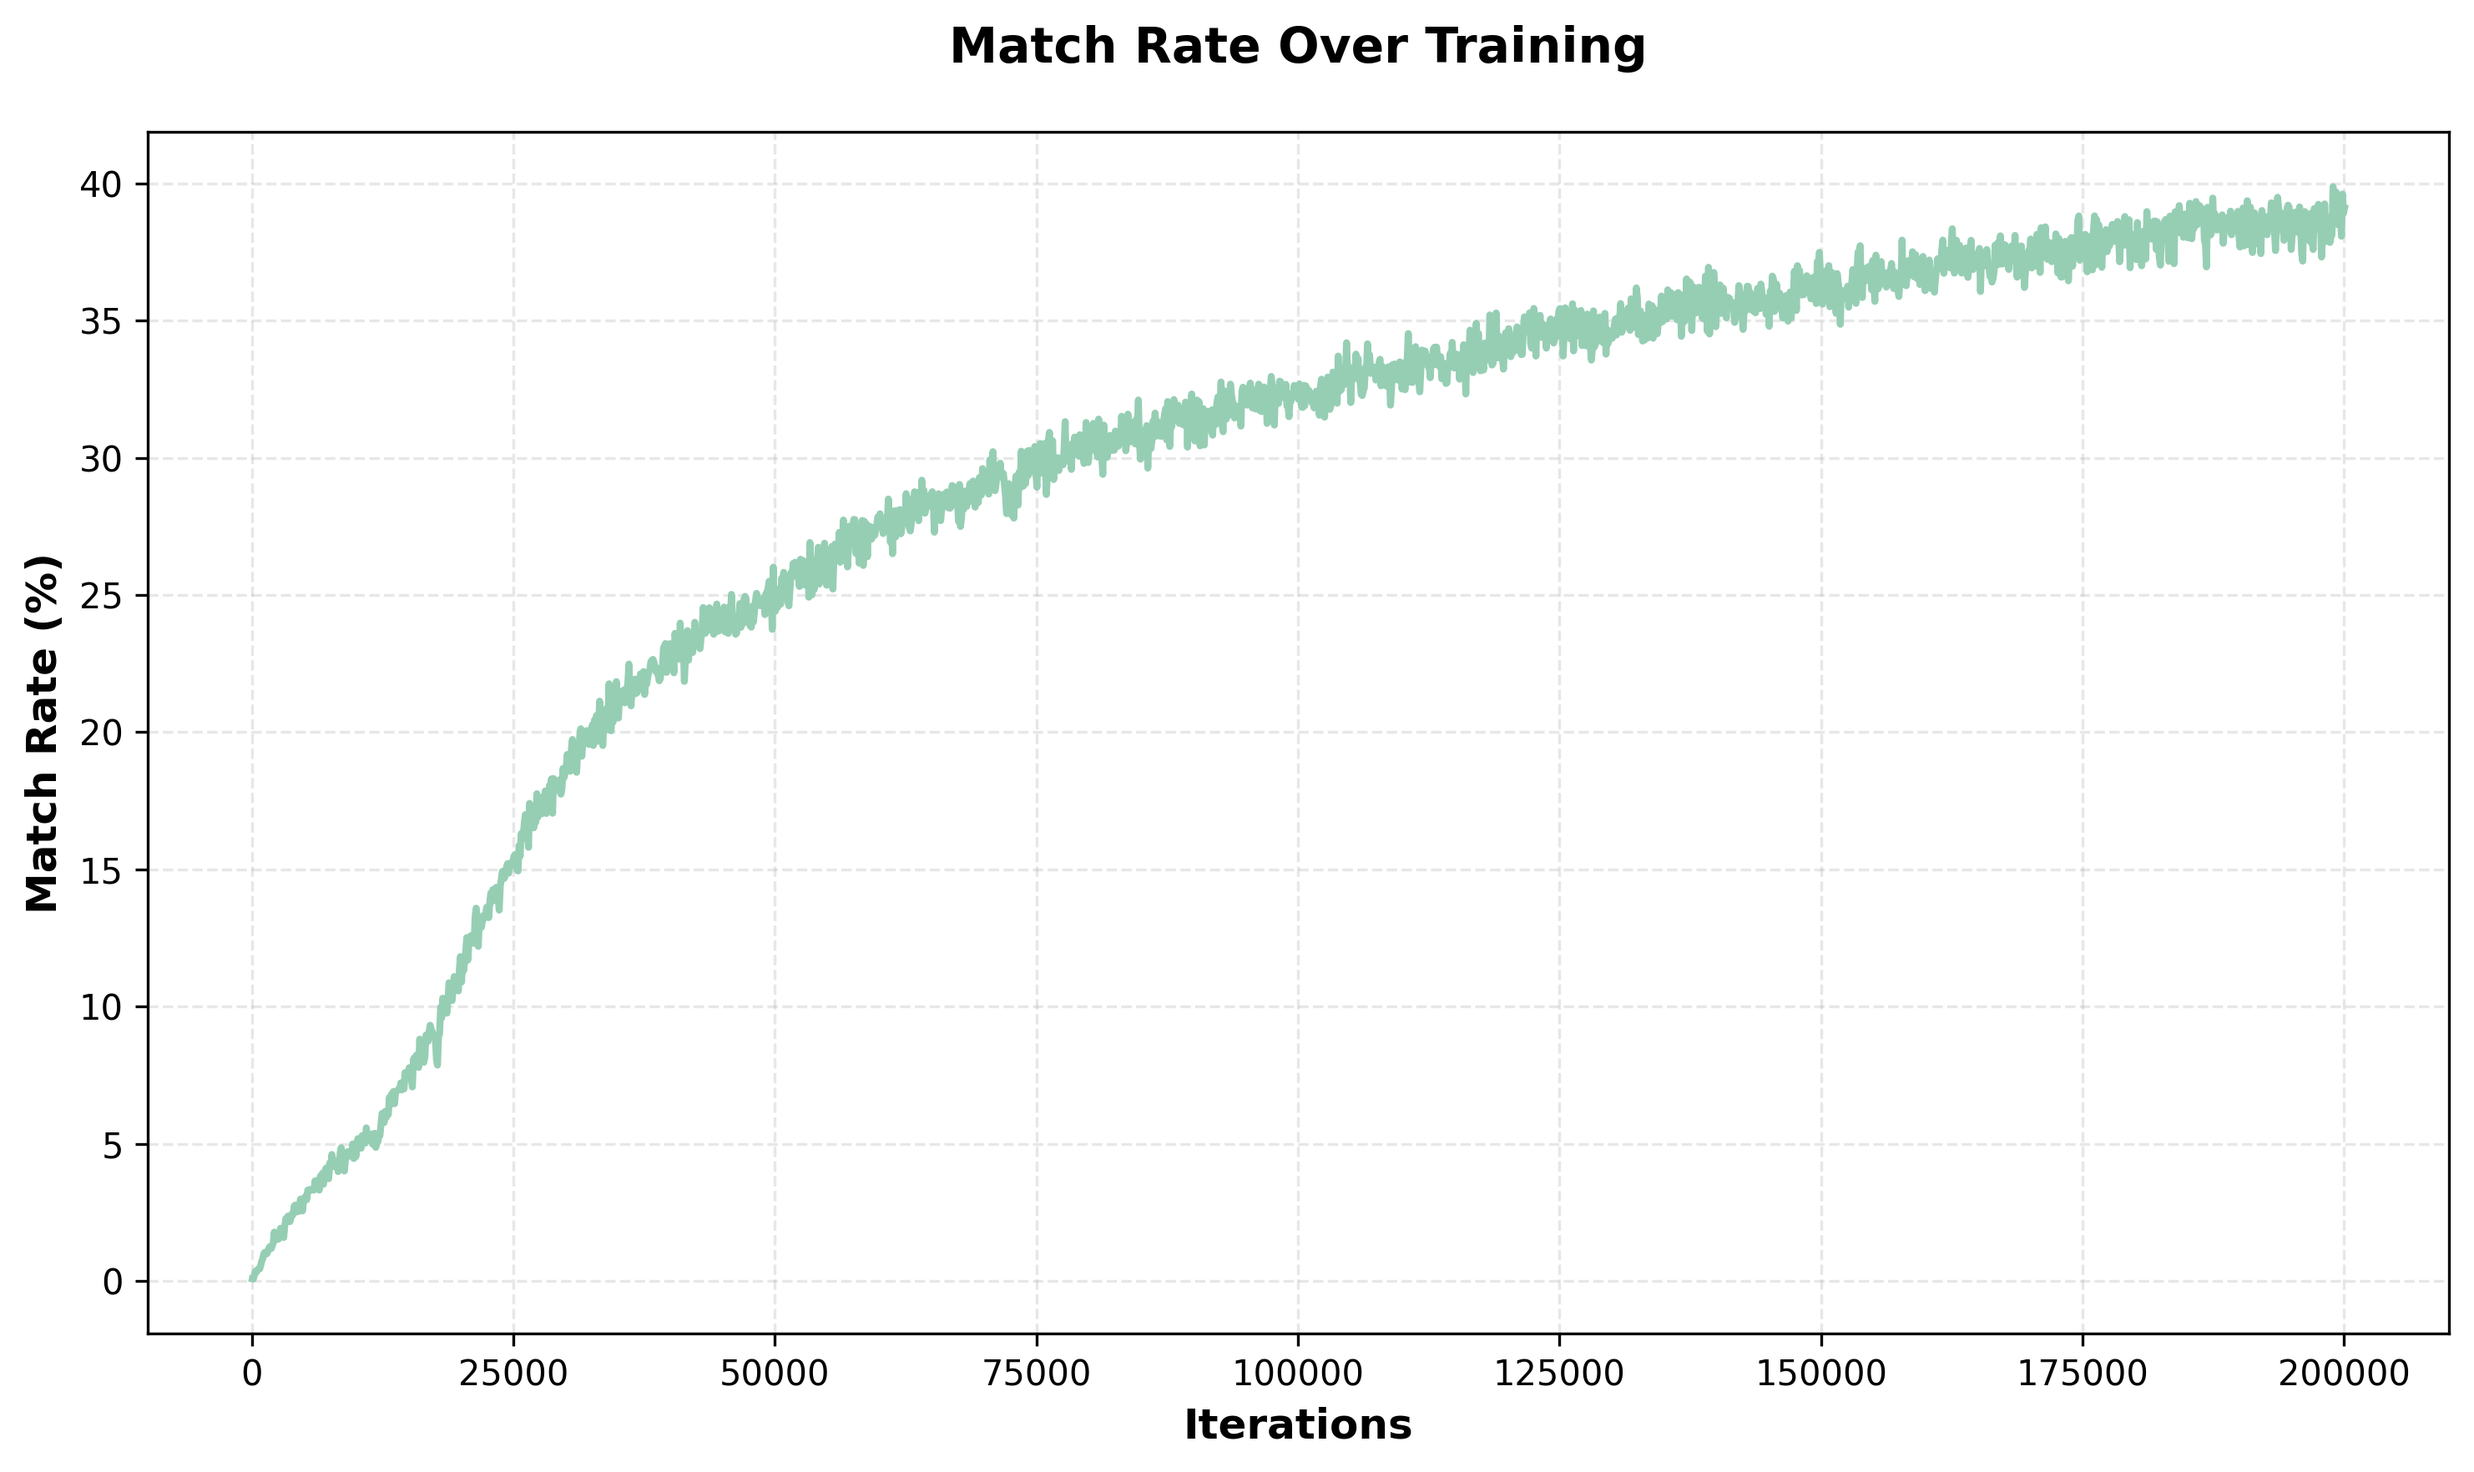
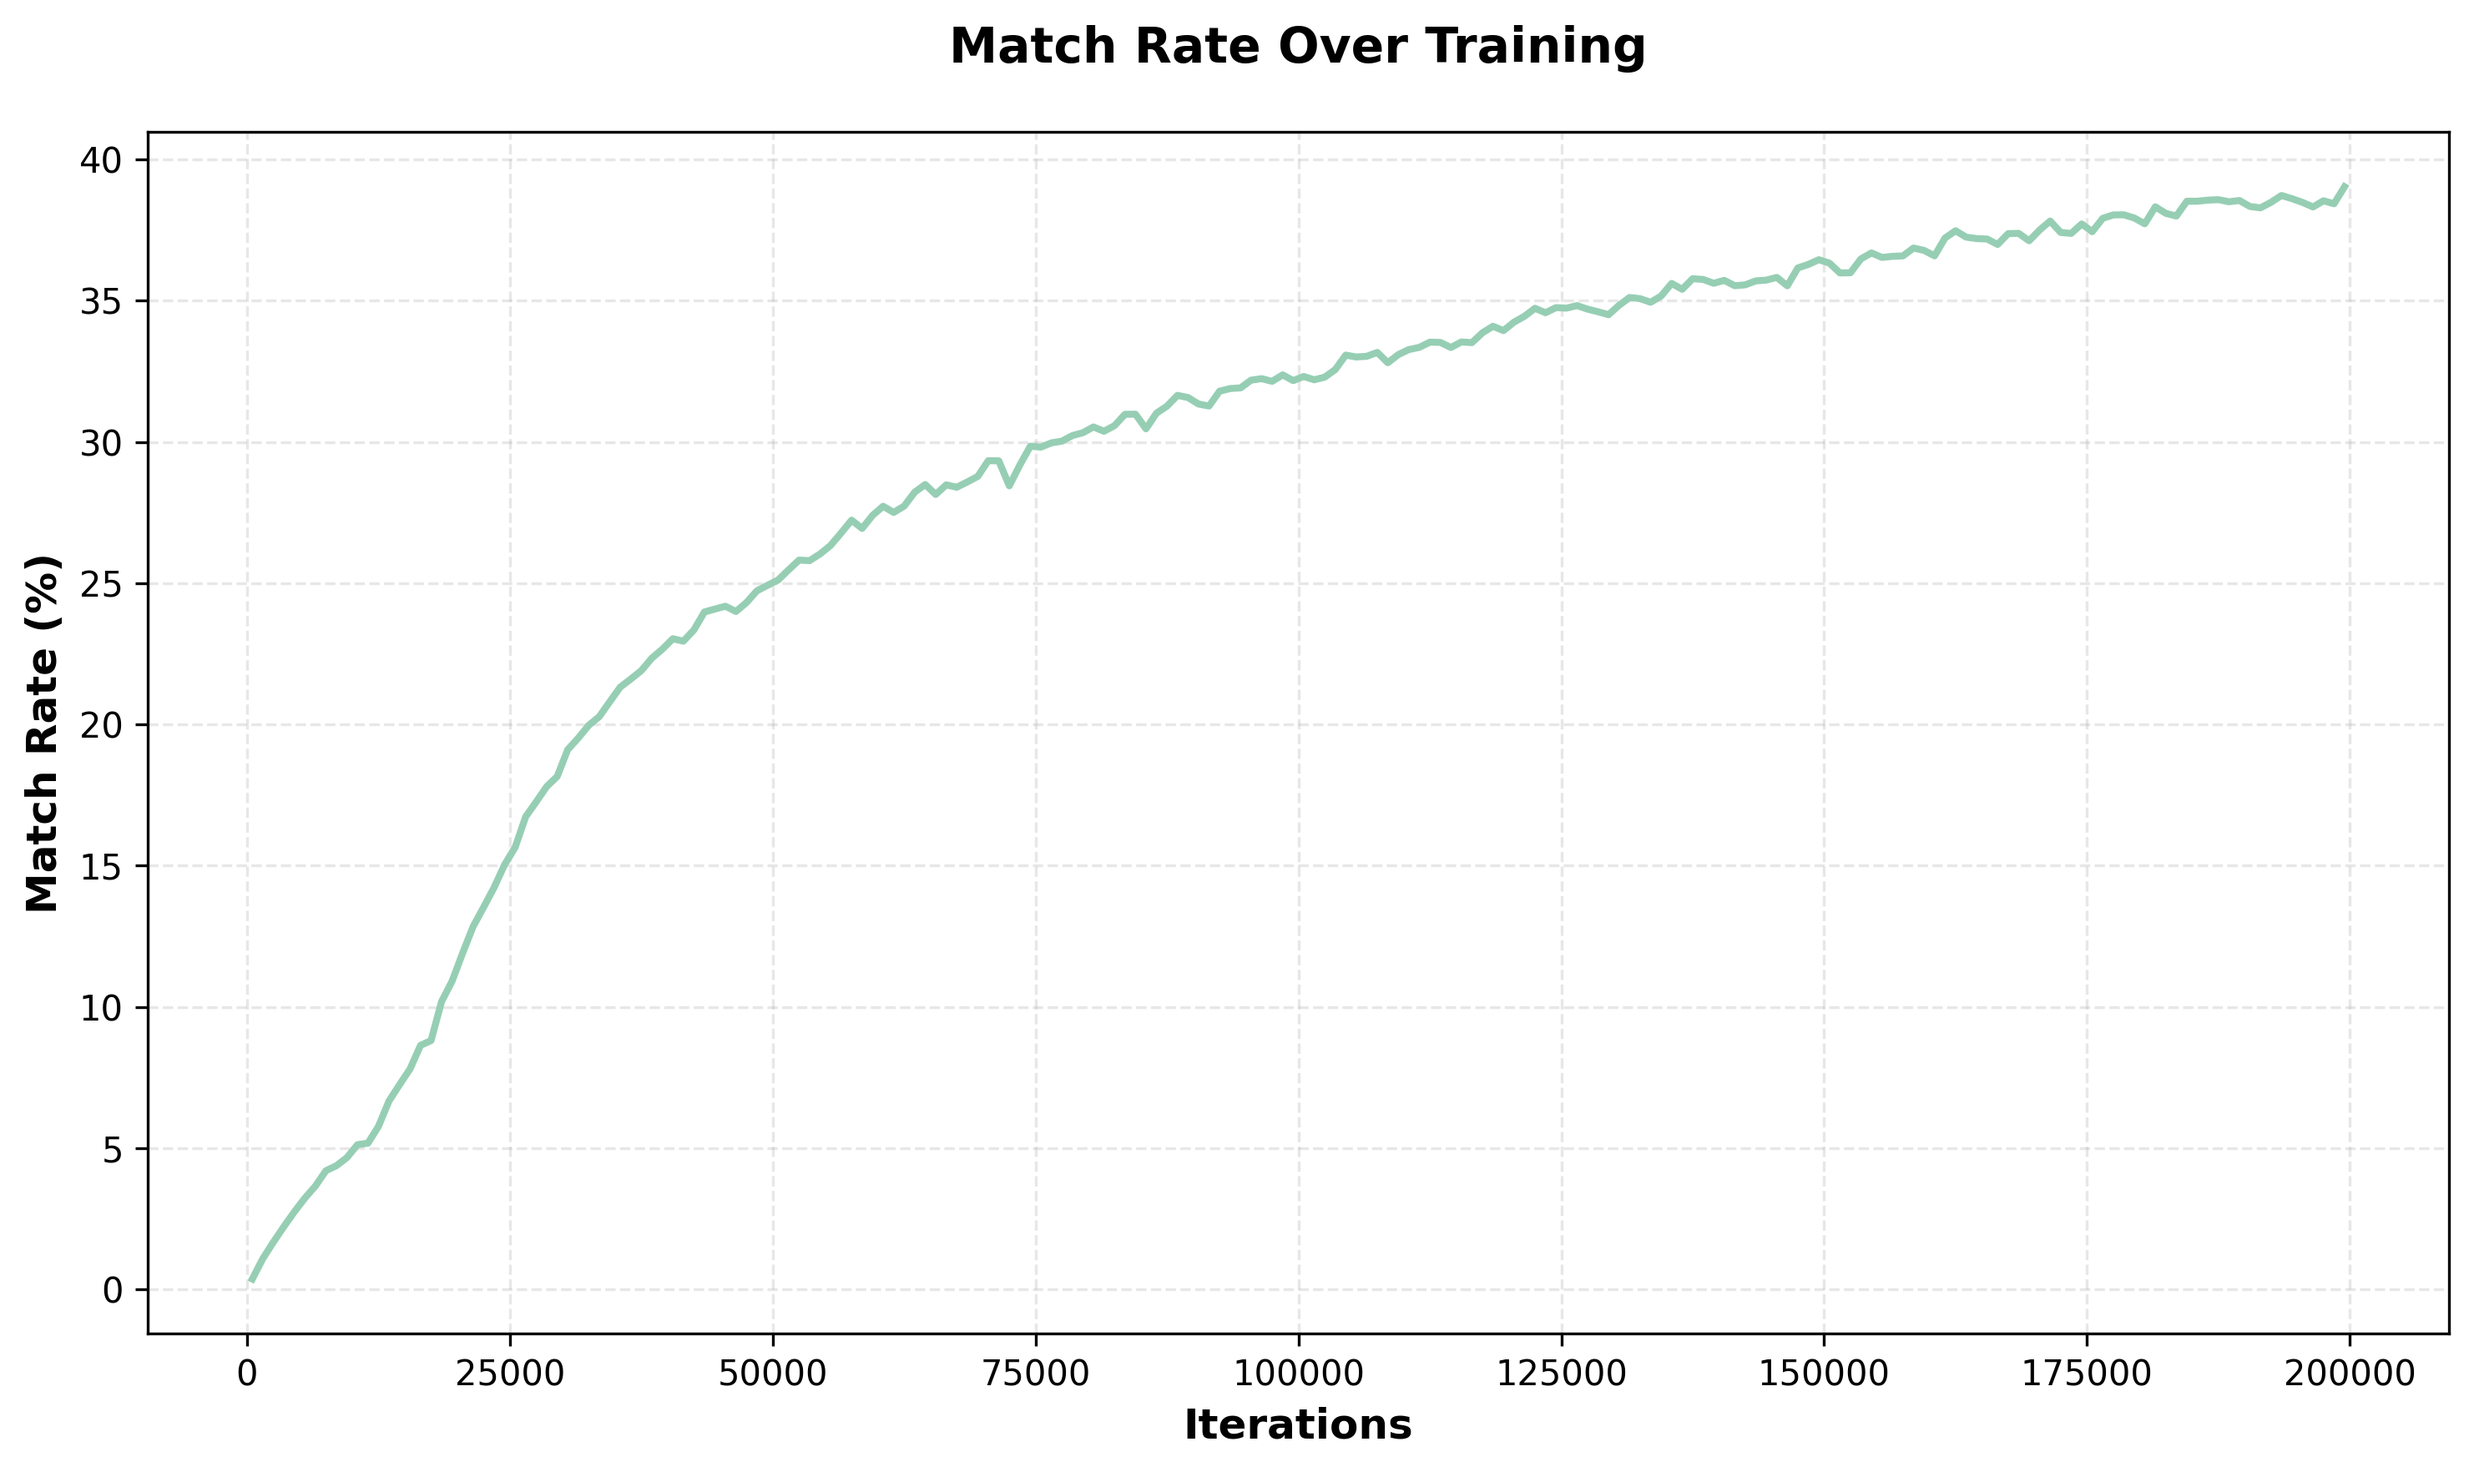
mod

diff --git a/plot_loss.py b/plot_loss.py
@@ -109,7 +109,7 @@ def parse_log_file(log_file):
     
     return iterations, key_loss, lpips_loss, total_loss, match_rate, mse_dist, mae_dist
 
-def average_metrics(iterations, metrics, window_size=100):
+def average_metrics(iterations, metrics, window_size=1000):
     # Convert to numpy arrays for easier manipulation
     iterations = np.array(iterations)
     metrics = np.array(metrics)

diff --git a/models/key_mapper.py b/models/key_mapper.py
@@ -7,7 +7,7 @@ import torch.nn as nn
 
 class KeyMapper(nn.Module):
     """
-    Fixed secret mapping: maps a latent partial vector to a configurable-bit binary key.
+    Fixed secret mapping: maps a latent partial vector or a vector of selected image pixels to a configurable-bit binary key.
     """
     def __init__(self, input_dim=32, output_dim=4, seed=None):
         """
